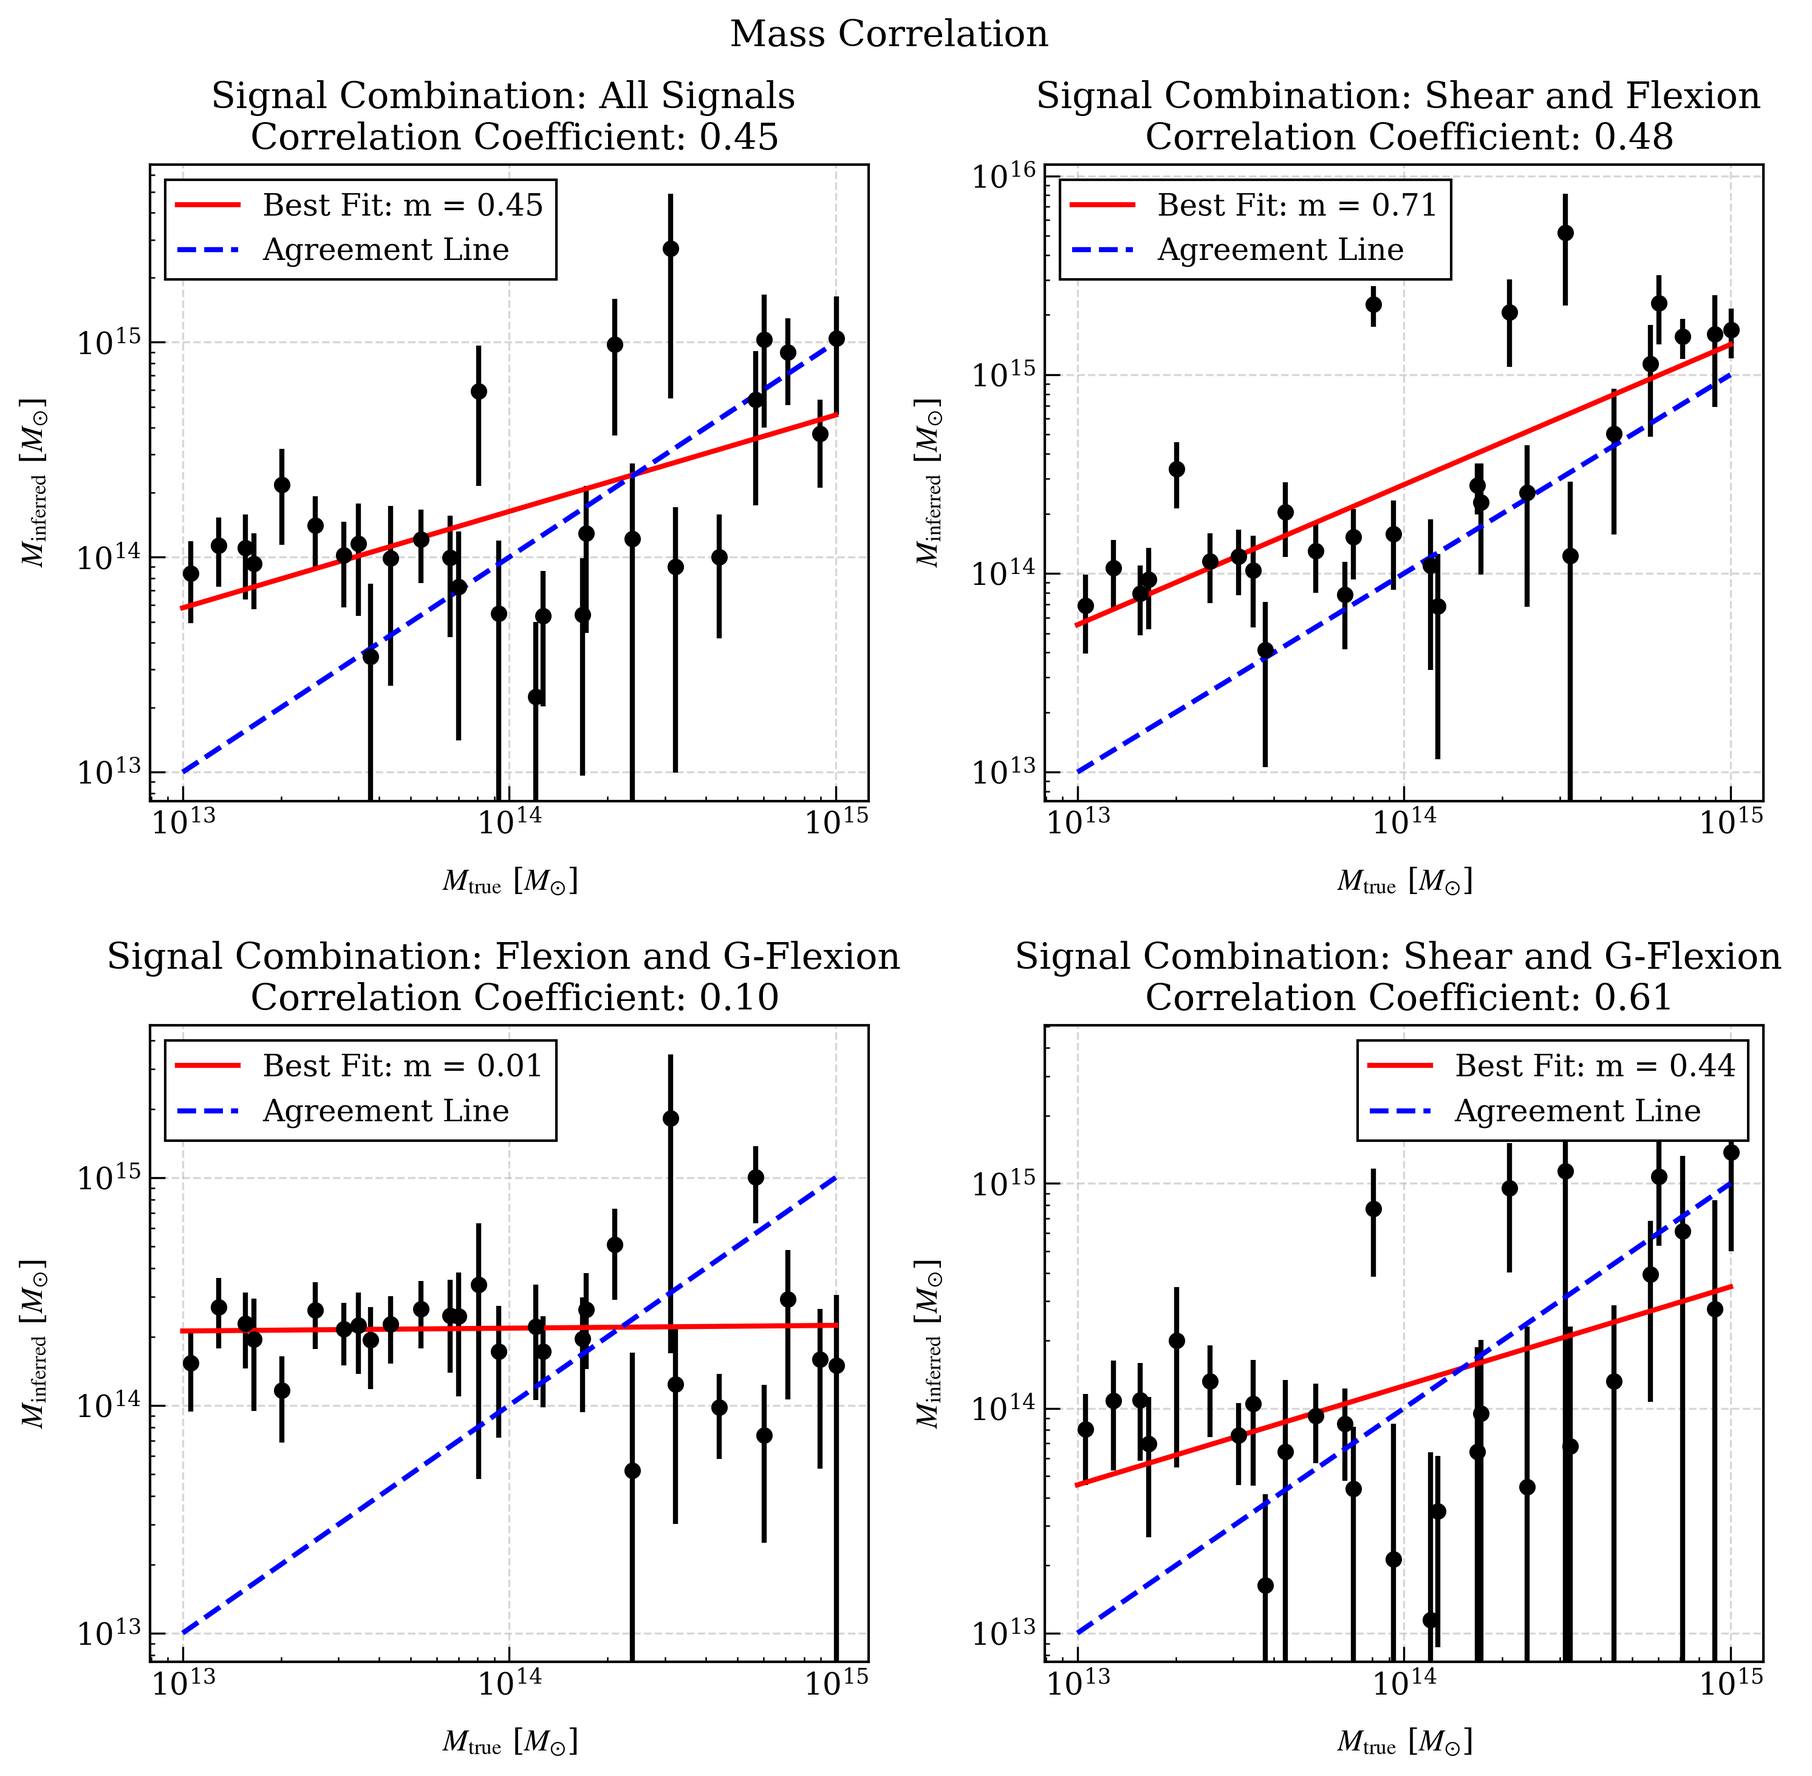
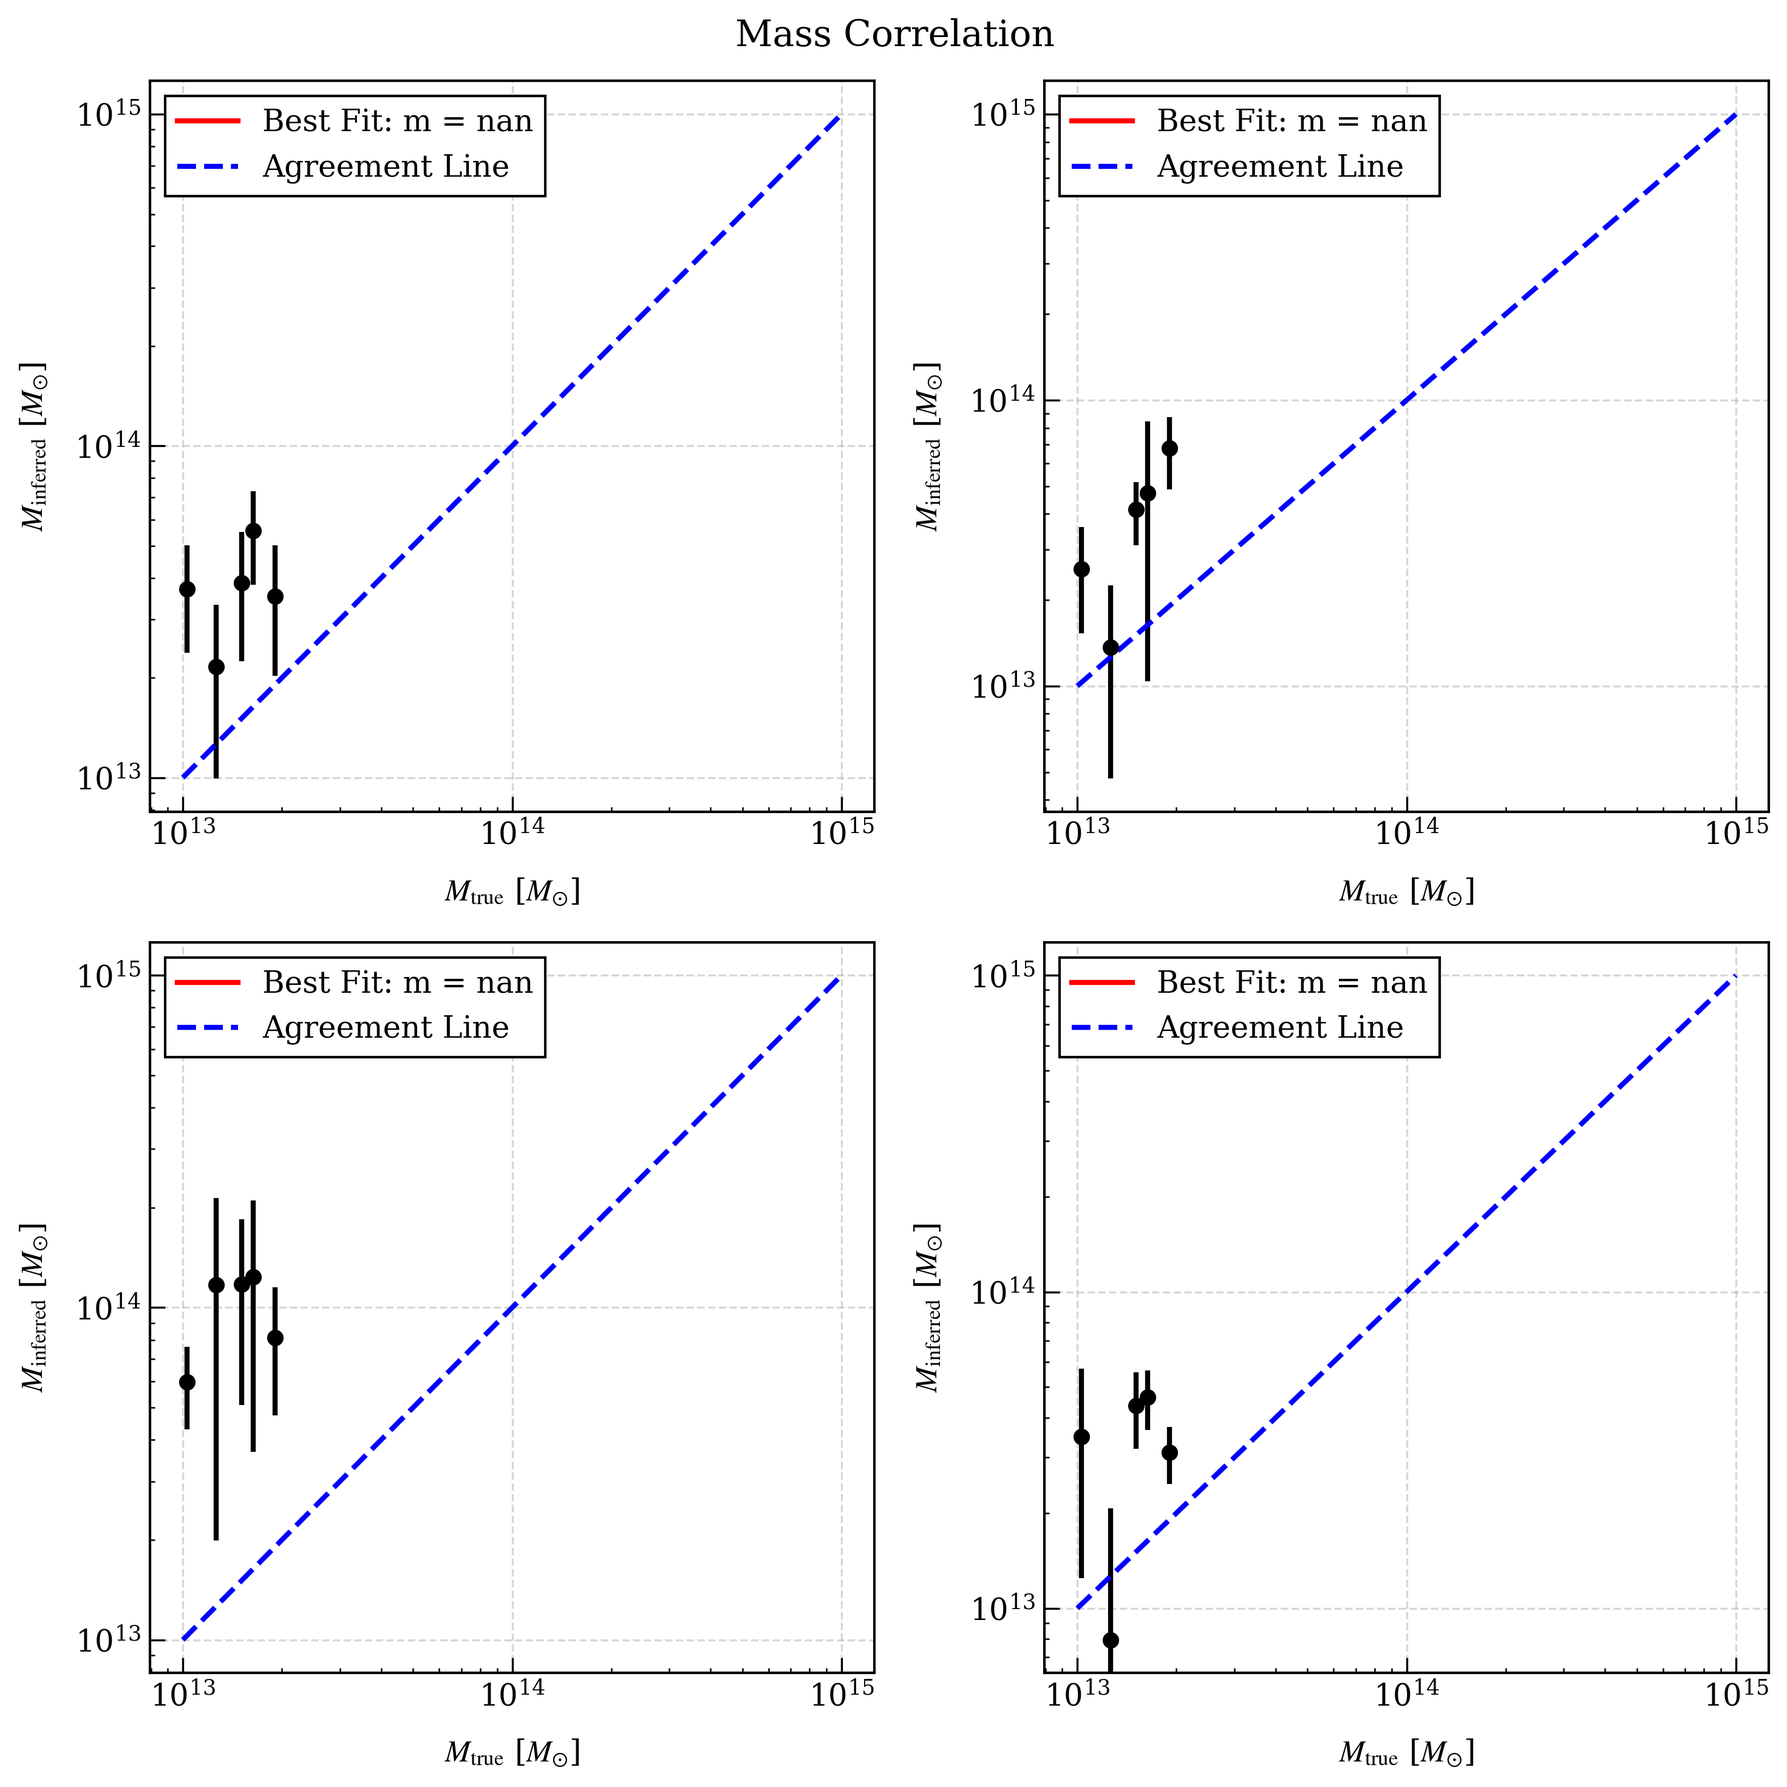
Correction to parallel approach

diff --git a/mdark.py b/mdark.py
@@ -449,7 +449,7 @@ def build_mass_correlation_plot(file_name, plot_name):
     plt.show()
 
 
-def build_mass_correlation_plot_errors(test_dir, ID_file, plot_name):
+def build_mass_correlation_plot_errors(ID_file, results_file, plot_name):
     IDs = []
     true_mass = []
     with open(ID_file, 'r') as f:
@@ -457,35 +457,27 @@ def build_mass_correlation_plot_errors(test_dir, ID_file, plot_name):
         for line in lines:
             ID = line.split(',')[0]
             mass = line.split(',')[1]
-            IDs.append(ID)
-            true_mass.append(mass)
+            IDs.append(int(ID))
+            true_mass.append(float(mass))
 
     IDs = np.array(IDs)
     mass_val = np.empty((len(IDs), 4))
     mass_err = np.empty((len(IDs), 4))
 
-    for i, ID in enumerate(IDs):
-        mass_1 = []
-        mass_2 = []
-        mass_3 = []
-        mass_4 = []
-        with open(test_dir + str(ID) + '_data.csv', 'r') as f:
-            lines = f.readlines()[1:]
-            for line in lines:
-                mass_1.append(float(line.split(',')[1]))
-                mass_2.append(float(line.split(',')[2]))
-                mass_3.append(float(line.split(',')[3]))
-                mass_4.append(float(line.split(',')[4]))
-
-        mass_val[i, 0] = np.mean(mass_1)
-        mass_val[i, 1] = np.mean(mass_2)
-        mass_val[i, 2] = np.mean(mass_3)
-        mass_val[i, 3] = np.mean(mass_4)
-
-        mass_err[i, 0] = np.std(mass_1)
-        mass_err[i, 1] = np.std(mass_2)
-        mass_err[i, 2] = np.std(mass_3)
-        mass_err[i, 3] = np.std(mass_4)
+    # Now read in the results file
+    results = pd.read_csv(results_file)
+    # There are 4 columns for mass
+    mass_columns = [' Mass_all_signals', ' Mass_gamma_F', ' Mass_F_G', ' Mass_gamma_G']
+    signals = ['All Signals', 'Shear and Flexion', 'Flexion and G-Flexion', 'Shear and G-Flexion']
+    # Each ID will appear multiple times, depending on the number of trials run
+    # For each ID, collect all of the mass values and calculate the mean and standard deviation
+    for i in range(len(IDs)):
+        mass_values = []
+        for j in range(4):
+            mass_values.append(results[results['ID'] == int(IDs[i])][mass_columns[j]].values)
+        mass_values = np.array(mass_values)
+        mass_val[i] = np.mean(mass_values, axis=1)
+        mass_err[i] = np.std(mass_values, axis=1)
 
     # Plot the results for each signal combination
     fig, ax = plt.subplots(2, 2, figsize=(10, 10))
@@ -511,7 +503,7 @@ def build_mass_correlation_plot_errors(test_dir, ID_file, plot_name):
         ax[i].legend()
         ax[i].set_xlabel(r'$M_{\rm true}$ [$M_{\odot}$]')
         ax[i].set_ylabel(r'$M_{\rm inferred}$ [$M_{\odot}$]')
-        ax[i].set_title('Signal Combination: {} \n Correlation Coefficient: {:.2f}'.format(signals[i], np.corrcoef(true_mass_temp, mass_values)[0, 1]))
+        ax[i].set_title('Signal Combination: {} \n Correlation Coefficient: {:.2f}'.format(signals[i], np.corrcoef(true_mass, mass_values)[0, 1]))
 
     fig.suptitle('Mass Correlation')
     fig.tight_layout()
@@ -785,12 +777,9 @@ def run_test(ID_file, result_file, z):
 
 
 def run_single_test(args):
-    ID, z, N_test, signal_choices, result_dir = args
+    ID, z, signal_choices, halos, sources, xmax = args
     # Run the pipeline for a single cluster, with a given set of signal choices
     # N_test times. Save the results to a file
-
-    halos = find_halos(int(ID), z)
-    halos, sources, xmax = build_lensing_field(halos, z)
 
     xs = sources.x
     ys = sources.y
@@ -799,66 +788,53 @@ def run_single_test(args):
     sig_f = np.ones(len(xs)) * 0.01
     sig_g = np.ones(len(xs)) * 0.02
 
-    with open(result_dir + '/{}_data.csv'.format(ID), 'w') as f:
-        f.write('Trial, Mass_all_signals, Mass_gamma_F, Mass_F_G, Mass_gamma_G, chi2_all_signals, chi2_gamma_F, chi2_F_G, chi2_gamma_G, Nfound_all_signals, Nfound_gamma_F, Nfound_F_G, Nfound_gamma_G\n')
+    masses = []
+    candidate_number = []
+    chi_scores = []
+
+    # Recreate the sources each time - keeping the positions the same, 
+    # But allowing the noises to change
+
+    # Choose a random seed
+    np.random.seed()
+    noisy_sources = pipeline.Source(xs, ys, np.zeros_like(xs), np.zeros_like(xs), np.zeros_like(xs), np.zeros_like(xs), np.zeros_like(xs), np.zeros_like(xs), sig_s, sig_f, sig_g)
+    noisy_sources.apply_NFW_lensing(halos)
+
+    # Apply noise
+    noisy_sources.e1 += np.random.normal(0, 0.1, len(noisy_sources.x))
+    noisy_sources.e2 += np.random.normal(0, 0.1, len(noisy_sources.x))
+    noisy_sources.f1 += np.random.normal(0, 0.01, len(noisy_sources.x))
+    noisy_sources.f2 += np.random.normal(0, 0.01, len(noisy_sources.x))
+    noisy_sources.g1 += np.random.normal(0, 0.02, len(noisy_sources.x))
+    noisy_sources.g2 += np.random.normal(0, 0.02, len(noisy_sources.x))
     
-        for i in range(N_test):
-            masses = []
-            candidate_number = []
-            chi_scores = []
+    for signal_choice in signal_choices:
+        candidate_lenses, chi2 = pipeline.fit_lensing_field(noisy_sources, xmax, flags=False, use_flags=signal_choice)
 
-            # Recreate the sources each time - keeping the positions the same, 
-            # But allowing the noises to change
+        mass = compute_masses(candidate_lenses, z, xmax)
+        candidate_num = len(candidate_lenses.x)
 
-            # Choose a random seed
-            np.random.seed(i)
-            noisy_sources = pipeline.Source(xs, ys, np.zeros_like(xs), np.zeros_like(xs), np.zeros_like(xs), np.zeros_like(xs), np.zeros_like(xs), np.zeros_like(xs), sig_s, sig_f, sig_g)
-            noisy_sources.apply_NFW_lensing(halos)
+        chi_scores.append(chi2)
+        masses.append(mass)
+        candidate_number.append(candidate_num)
 
-            print(noisy_sources.f1)
-
-            # Apply noise
-            noisy_sources.e1 += np.random.normal(0, 0.1, len(noisy_sources.x))
-            noisy_sources.e2 += np.random.normal(0, 0.1, len(noisy_sources.x))
-            noisy_sources.f1 += np.random.normal(0, 0.01, len(noisy_sources.x))
-            noisy_sources.f2 += np.random.normal(0, 0.01, len(noisy_sources.x))
-            noisy_sources.g1 += np.random.normal(0, 0.02, len(noisy_sources.x))
-            noisy_sources.g2 += np.random.normal(0, 0.02, len(noisy_sources.x))
-
-            print(noisy_sources.f1)
-            
-            for signal_choice in signal_choices:
-                candidate_lenses, chi2 = pipeline.fit_lensing_field(noisy_sources, xmax, flags=False, use_flags=signal_choice)
-
-                mass = compute_masses(candidate_lenses, z, xmax)
-                candidate_num = len(candidate_lenses.x)
-
-                chi_scores.append(chi2)
-                masses.append(mass)
-                candidate_number.append(candidate_num)
-
-            # Save the results to a file
-            results = [masses[0], masses[1], masses[2], masses[3], chi_scores[0], chi_scores[1], chi_scores[2], chi_scores[3], candidate_number[0], candidate_number[1], candidate_number[2], candidate_number[3]]
-            f.write('{} \n'.format(i))
-            print('Cluster ID: {} - Trial: {}'.format(ID, i))
-        
-        f.close()
-
-        return results
+    # Save the results to a file
+    results = [ID, masses[0], masses[1], masses[2], masses[3], chi_scores[0], chi_scores[1], chi_scores[2], chi_scores[3], candidate_number[0], candidate_number[1], candidate_number[2], candidate_number[3]]
+    print('Finished test for cluster {}'.format(ID))
+    return results
 
 
-def run_test_parallel(ID_file, result_dir, z, N_test):
+def run_test_parallel(ID_file, result_file, z, N_test):
     IDs = []
 
     with open(ID_file, 'r') as f:
         lines = f.readlines()[1:]
         for line in lines:
             ID = line.split(',')[0]
-            IDs.append(ID)
+            IDs.append(int(ID))
     
     IDs = np.array(IDs)
-    IDs = IDs[0] # For testing purposes
-    
+
     signal_choices = [
         [True, True, True], 
         [True, True, False], 
@@ -866,12 +842,41 @@ def run_test_parallel(ID_file, result_dir, z, N_test):
         [True, False, True]
     ]
 
+    # Load the halos and sources
+    halo_objects = []
+    source_objects = []
+    xmax_values = []
+    for ID in IDs:
+        halo = find_halos(ID, z)
+        halo, source, xmax = build_lensing_field(halo, z)
+
+        # Create a new source object, without noise
+        xs = source.x
+        ys = source.y
+        clean_source = pipeline.Source(xs, ys, np.zeros_like(xs), np.zeros_like(xs), np.zeros_like(xs), np.zeros_like(xs), np.zeros_like(xs), np.zeros_like(xs), np.ones(len(xs)) * 0.1, np.ones(len(xs)) * 0.01, np.ones(len(xs)) * 0.02)
+        clean_source.apply_NFW_lensing(halo)
+
+        halo_objects.append(halo)
+        source_objects.append(clean_source)
+        xmax_values.append(xmax)
+    
+    print('Halo and Source objects loaded...')
+
     # Prepare the arguments for each task
-    tasks = [(ID, z, N_test, signal_choices, result_dir) for ID in IDs]
+    tasks = [(ID, z, signal_choices, halo_objects[i], source_objects[i], xmax_values[i]) for i, ID in enumerate(IDs)]
+    # Repeat each task N_test times
+    tasks = [task for task in tasks for _ in range(N_test)]
 
     # Process pool
     with Pool() as pool:
         results = pool.map(run_single_test, tasks)
+
+    # Save the results to a file
+    results = np.array(results).reshape(-1, 13)
+    with open(result_file, 'w') as f:
+        f.write('ID, Mass_all_signals, Mass_gamma_F, Mass_F_G, Mass_gamma_G, Chi2_all_signals, Chi2_gamma_F, Chi2_F_G, Chi2_gamma_G, Nfound_all_signals, Nfound_gamma_F, Nfound_F_G, Nfound_gamma_G\n')
+        for i in range(len(results)):
+            f.write('{}\n'.format(', '.join(results[i].astype(str))))
 
     return
 
@@ -1017,21 +1022,28 @@ def GOF_correlation_coefficient(test_number):
     plt.show()
 
 
-def analyze_chi2_file(chi_2_file, result_file, test_num):
-    # Given a file with chi2 values, analyze the data
-    # and return the number of "good" fits
-    chi2_scores = []
-    with open(chi_2_file, 'r') as f:
-        lines = f.readlines()[1:]
-        for line in lines:
-            chi2 = line.split(',')[1:]
-            chi2 = [float(val) for val in chi2]
-            chi2_scores.extend(chi2)
-        
-    # Now, let's organize this into a couple of different sets
-    # There are 4 chi2 scores for each cluster, based on signal combination
-    # We would like to look at the distribution of chi2 scores
-    # based on the cluster associated with them, and the signal combination
+def analyze_chi2_file(ID_file, result_file, test_num):
+    # Given a result file, analyze the chi2 values
+    # Read in the chi2 values
+    data = pd.read_csv(result_file)
+    ID_data = pd.read_csv(ID_file)
+
+    IDs_from_file = ID_data['ID'].values
+    IDs_from_data = data['ID'].values
+    true_mass = ID_data[' Mass'].values
+
+    # Create a list, called mass
+    # This should have the same length as the chi2 values, and contain the true mass of the cluster
+    # This will allow us to plot the chi2 values as a function of mass
+    mass = []
+
+    for ID in IDs_from_data:
+        mass.append(true_mass[IDs_from_file == ID])
+    
+    all_signals_chi2 = data[' Chi2_all_signals'].values
+    gamma_f_chi2 = data[' Chi2_gamma_F'].values
+    f_g_chi2 = data[' Chi2_F_G'].values
+    gamma_g_chi2 = data[' Chi2_gamma_G'].values
             
     signal_choices = [
         'All Signals',
@@ -1040,22 +1052,7 @@ def analyze_chi2_file(chi_2_file, result_file, test_num):
         'Shear and G-Flexion'
     ]
 
-    all_signals_chi2 = []
-    gamma_f_chi2 = []
-    f_g_chi2 = []
-    gamma_g_chi2 = []
-
-    # The chi2 scores are organized as [chi2_all_signals, chi2_gamma_f, chi2_f_g, chi2_gamma_g]
-    # This repeats in every row for the number of trials run for each cluster
-    for i in range(0, len(chi2_scores), 4):
-        all_signals_chi2.append(chi2_scores[i])
-        gamma_f_chi2.append(chi2_scores[i+1])
-        f_g_chi2.append(chi2_scores[i+2])
-        gamma_g_chi2.append(chi2_scores[i+3])
-
-    
     # Now plot these distributions
-        
     fig, ax = plt.subplots(2, 2, figsize=(10, 10))
     ax = ax.flatten()
 
@@ -1078,27 +1075,30 @@ def analyze_chi2_file(chi_2_file, result_file, test_num):
     fig.tight_layout()
     plt.savefig('Images/MDARK/Chi2_Distributions_Signal_{}.png'.format(test_num))
 
-    true_masses = pd.read_csv(result_file)[' True Mass'].values
     # Now, let's look at the distribution of chi2 scores for each cluster
-    # Just do this as a scatter plot (need 4 cluster_nums per chi2), ie [1,1,1,1,2,2,2,2,...]
-    # Associate each signal with a color
-    true_masses = np.repeat(true_masses, 10)
+    # Each ID will have appear multiple times in the dataset - plot every chi2 score
+    # Plot as a function of mass (scatter plot)
+    # Distinguish the different signals with different colors
+    # Also plot the chi2 threshold
+
+    fig, ax = plt.subplots(figsize=(10, 10))
     colors = ['red', 'blue', 'green', 'purple']
-    colors = colors * 5
-    fig, ax = plt.subplots(1, 1, figsize=(10, 10))
-    fig.suptitle(r'$\chi^2$ Scores for Each Cluster')
     for i in range(4):
-        ax.scatter(true_masses, signal_chi2[i], color=colors[i], alpha=0.5, s=5)
-    ax.hlines(5, 1e13, 1e15, color='red', linestyle='--', label='Good Fit Threshold: 5')
-    ax.set_xlabel(r'Cluster Mass $M_{\odot}$')
-    ax.set_ylabel(r'$\chi^2$')
+        ax.scatter(mass, signal_chi2[i], color = colors[i], alpha=0.5)
     ax.set_xscale('log')
     ax.set_yscale('log')
-    # Create a legend for the colors
+    ax.set_xlabel(r'$M_{200} [M_{\odot}]$')
+    ax.set_ylabel(r'$\chi^2$')
+    ax.set_title('Chi2 vs Mass for all Clusters')
+    # Add a line for the chi2 threshold
+    ax.hlines(5, np.min(mass), np.max(mass), color='black', linestyle='--', label='Good Fit Threshold: 5')
+    # Explain the color to signal mapping in the legend
     handles = [plt.Line2D([0], [0], marker='o', color='w', markerfacecolor=color, label=signal) for color, signal in zip(colors, signal_choices)]
     ax.legend(handles=handles, title='Signal Combination')
-    plt.savefig('Images/MDARK/Chi2_Scores_Cluster_{}.png'.format(test_num))
+    fig.tight_layout()
+    plt.savefig('Images/MDARK/Chi2_vs_Mass_{}.png'.format(test_num))
     plt.show()
+
 
 # --------------------------------------------
 # Main Functions
@@ -1123,11 +1123,11 @@ if __name__ == '__main__':
         os.makedirs('Data/MDARK_Test/Test{}'.format(test_number))
         build_test_set(30, z_chosen, ID_file)
 
-    run_test_parallel(ID_file, test_dir, z_chosen, 5)
+    run_test_parallel(ID_file, result_file, z_chosen, 10)
     stop = time.time()
     print('Time taken: {}'.format(stop - start))
-    build_mass_correlation_plot_errors(test_dir, plot_name)
-    # analyze_chi2_file(chi2_file, result_file, test_number)
+    build_mass_correlation_plot_errors(ID_file, result_file, plot_name)
+    analyze_chi2_file(ID_file, result_file, test_number)
 
     raise ValueError('Done!')
 
